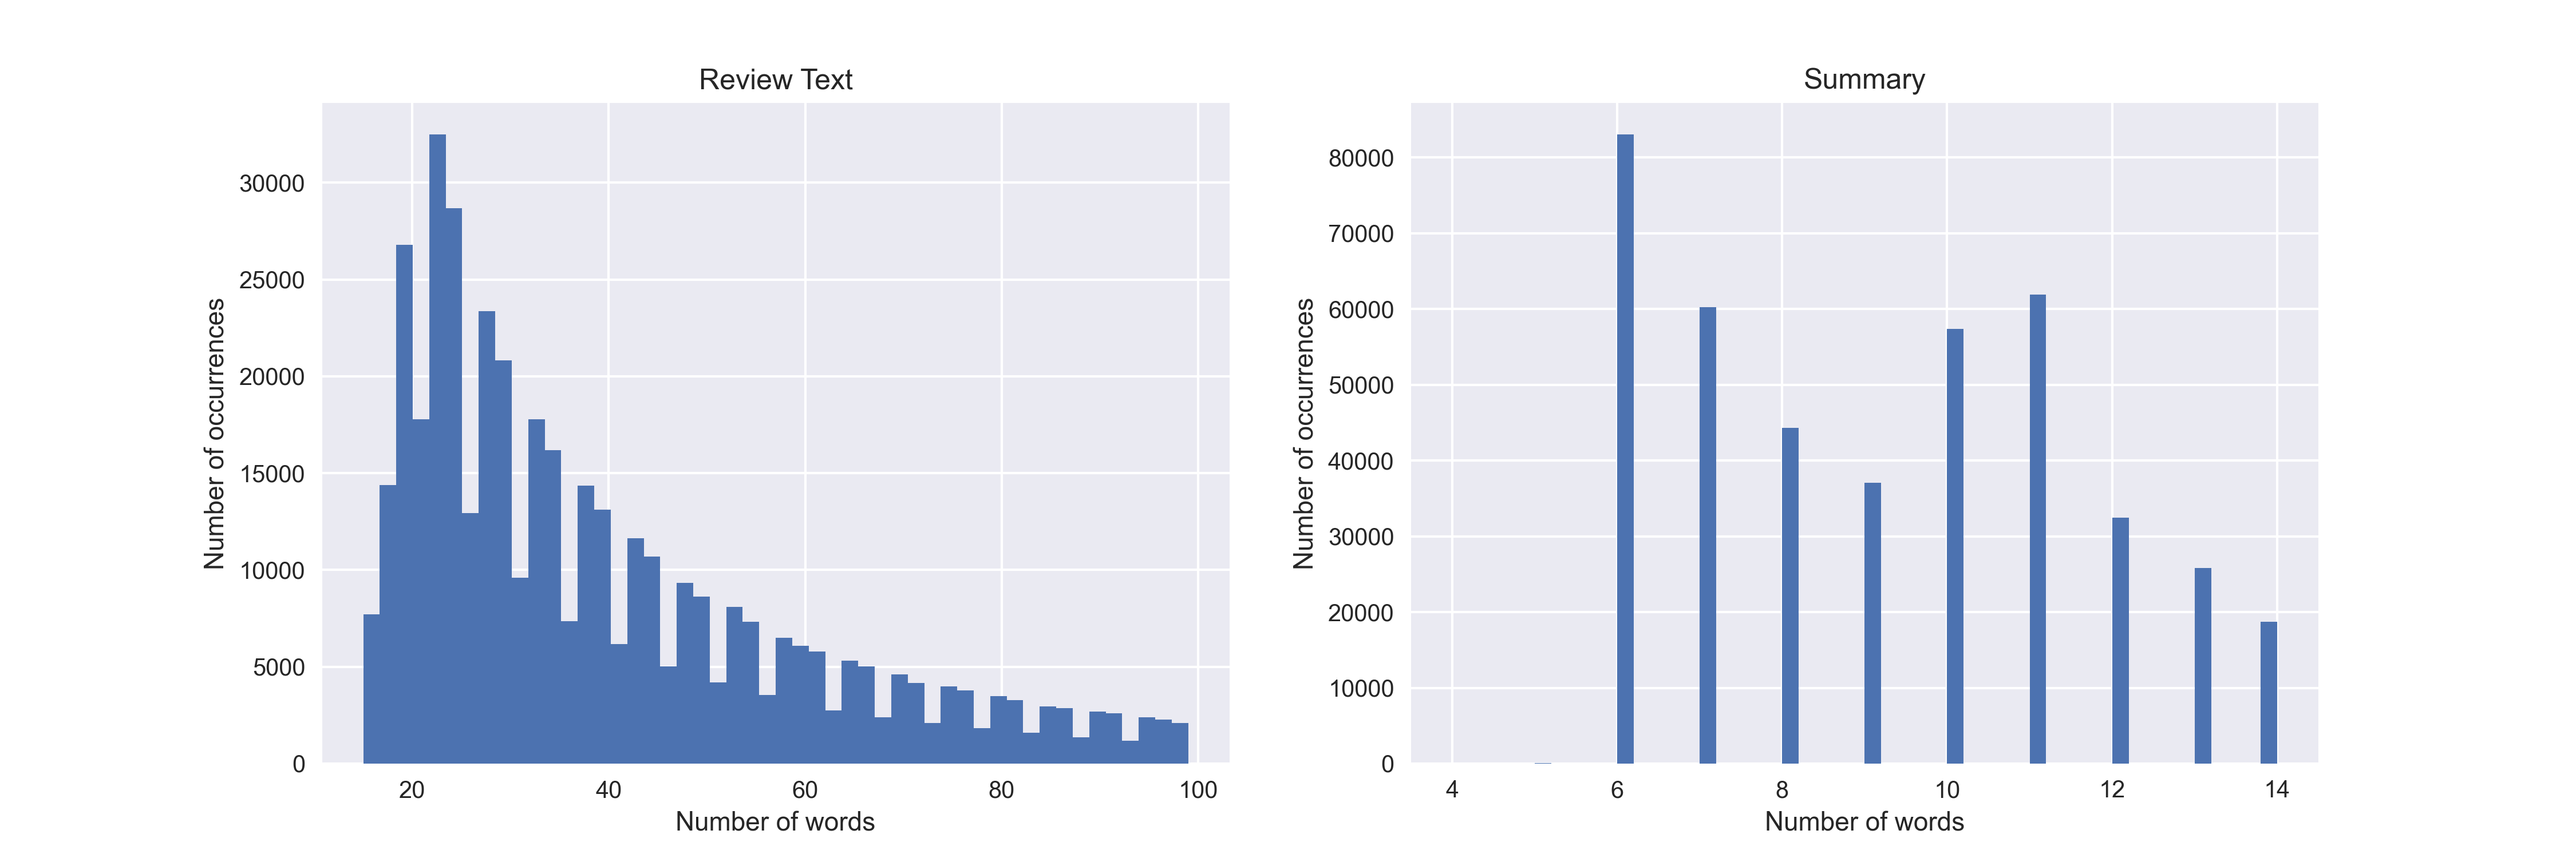
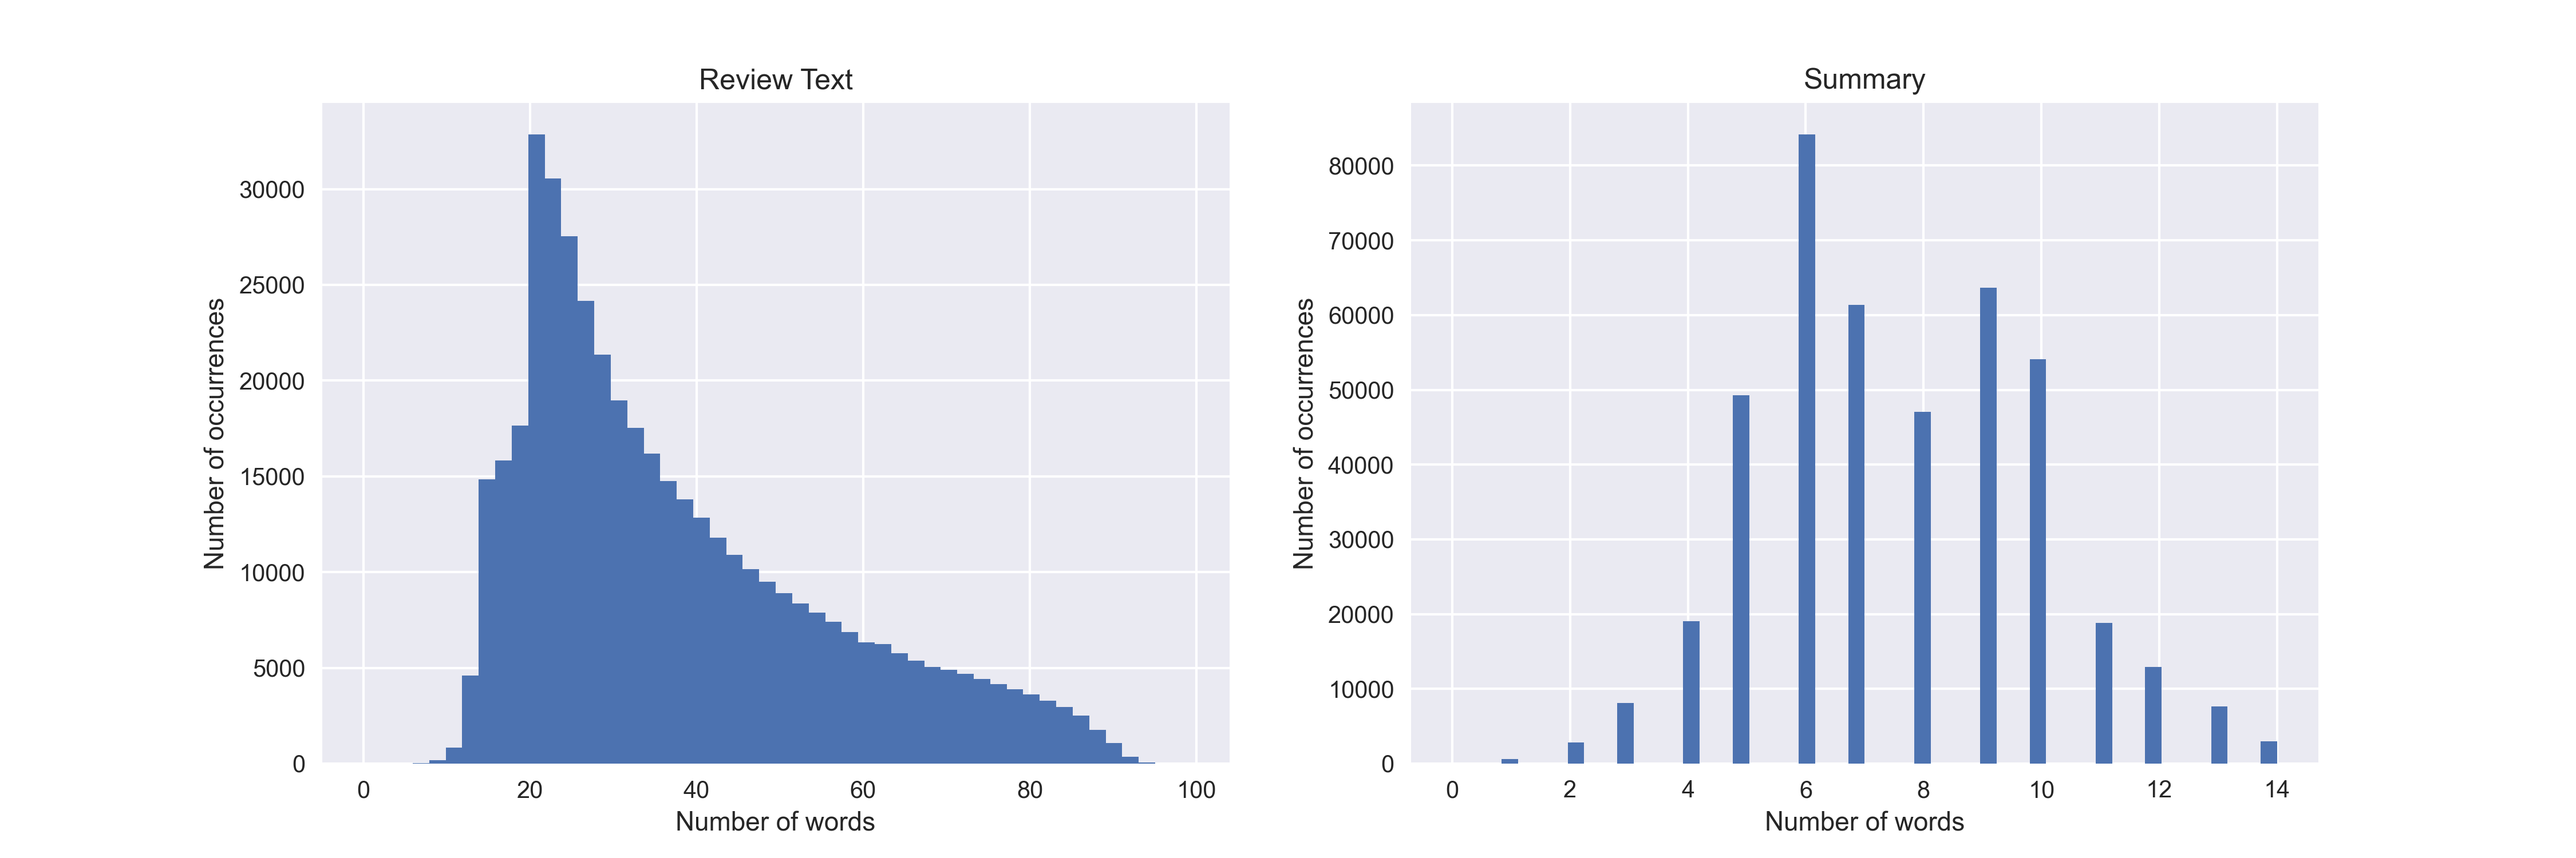
feat(train): even better pruning

diff --git a/utility.py b/utility.py
@@ -39,8 +39,8 @@ class DatasetType(Enum):
     TOKENIZED = 2
 
 class MaxTokenLength():
-    ARTS_REVIEW = 424
-    ARTS_SUMMARY = 43
+    ARTS_REVIEW = 177
+    ARTS_SUMMARY = 37
     VIDEO_REVIEW = 4064
     VIDEO_SUMMARY = 61
     GIFT_REVIEW = 553
